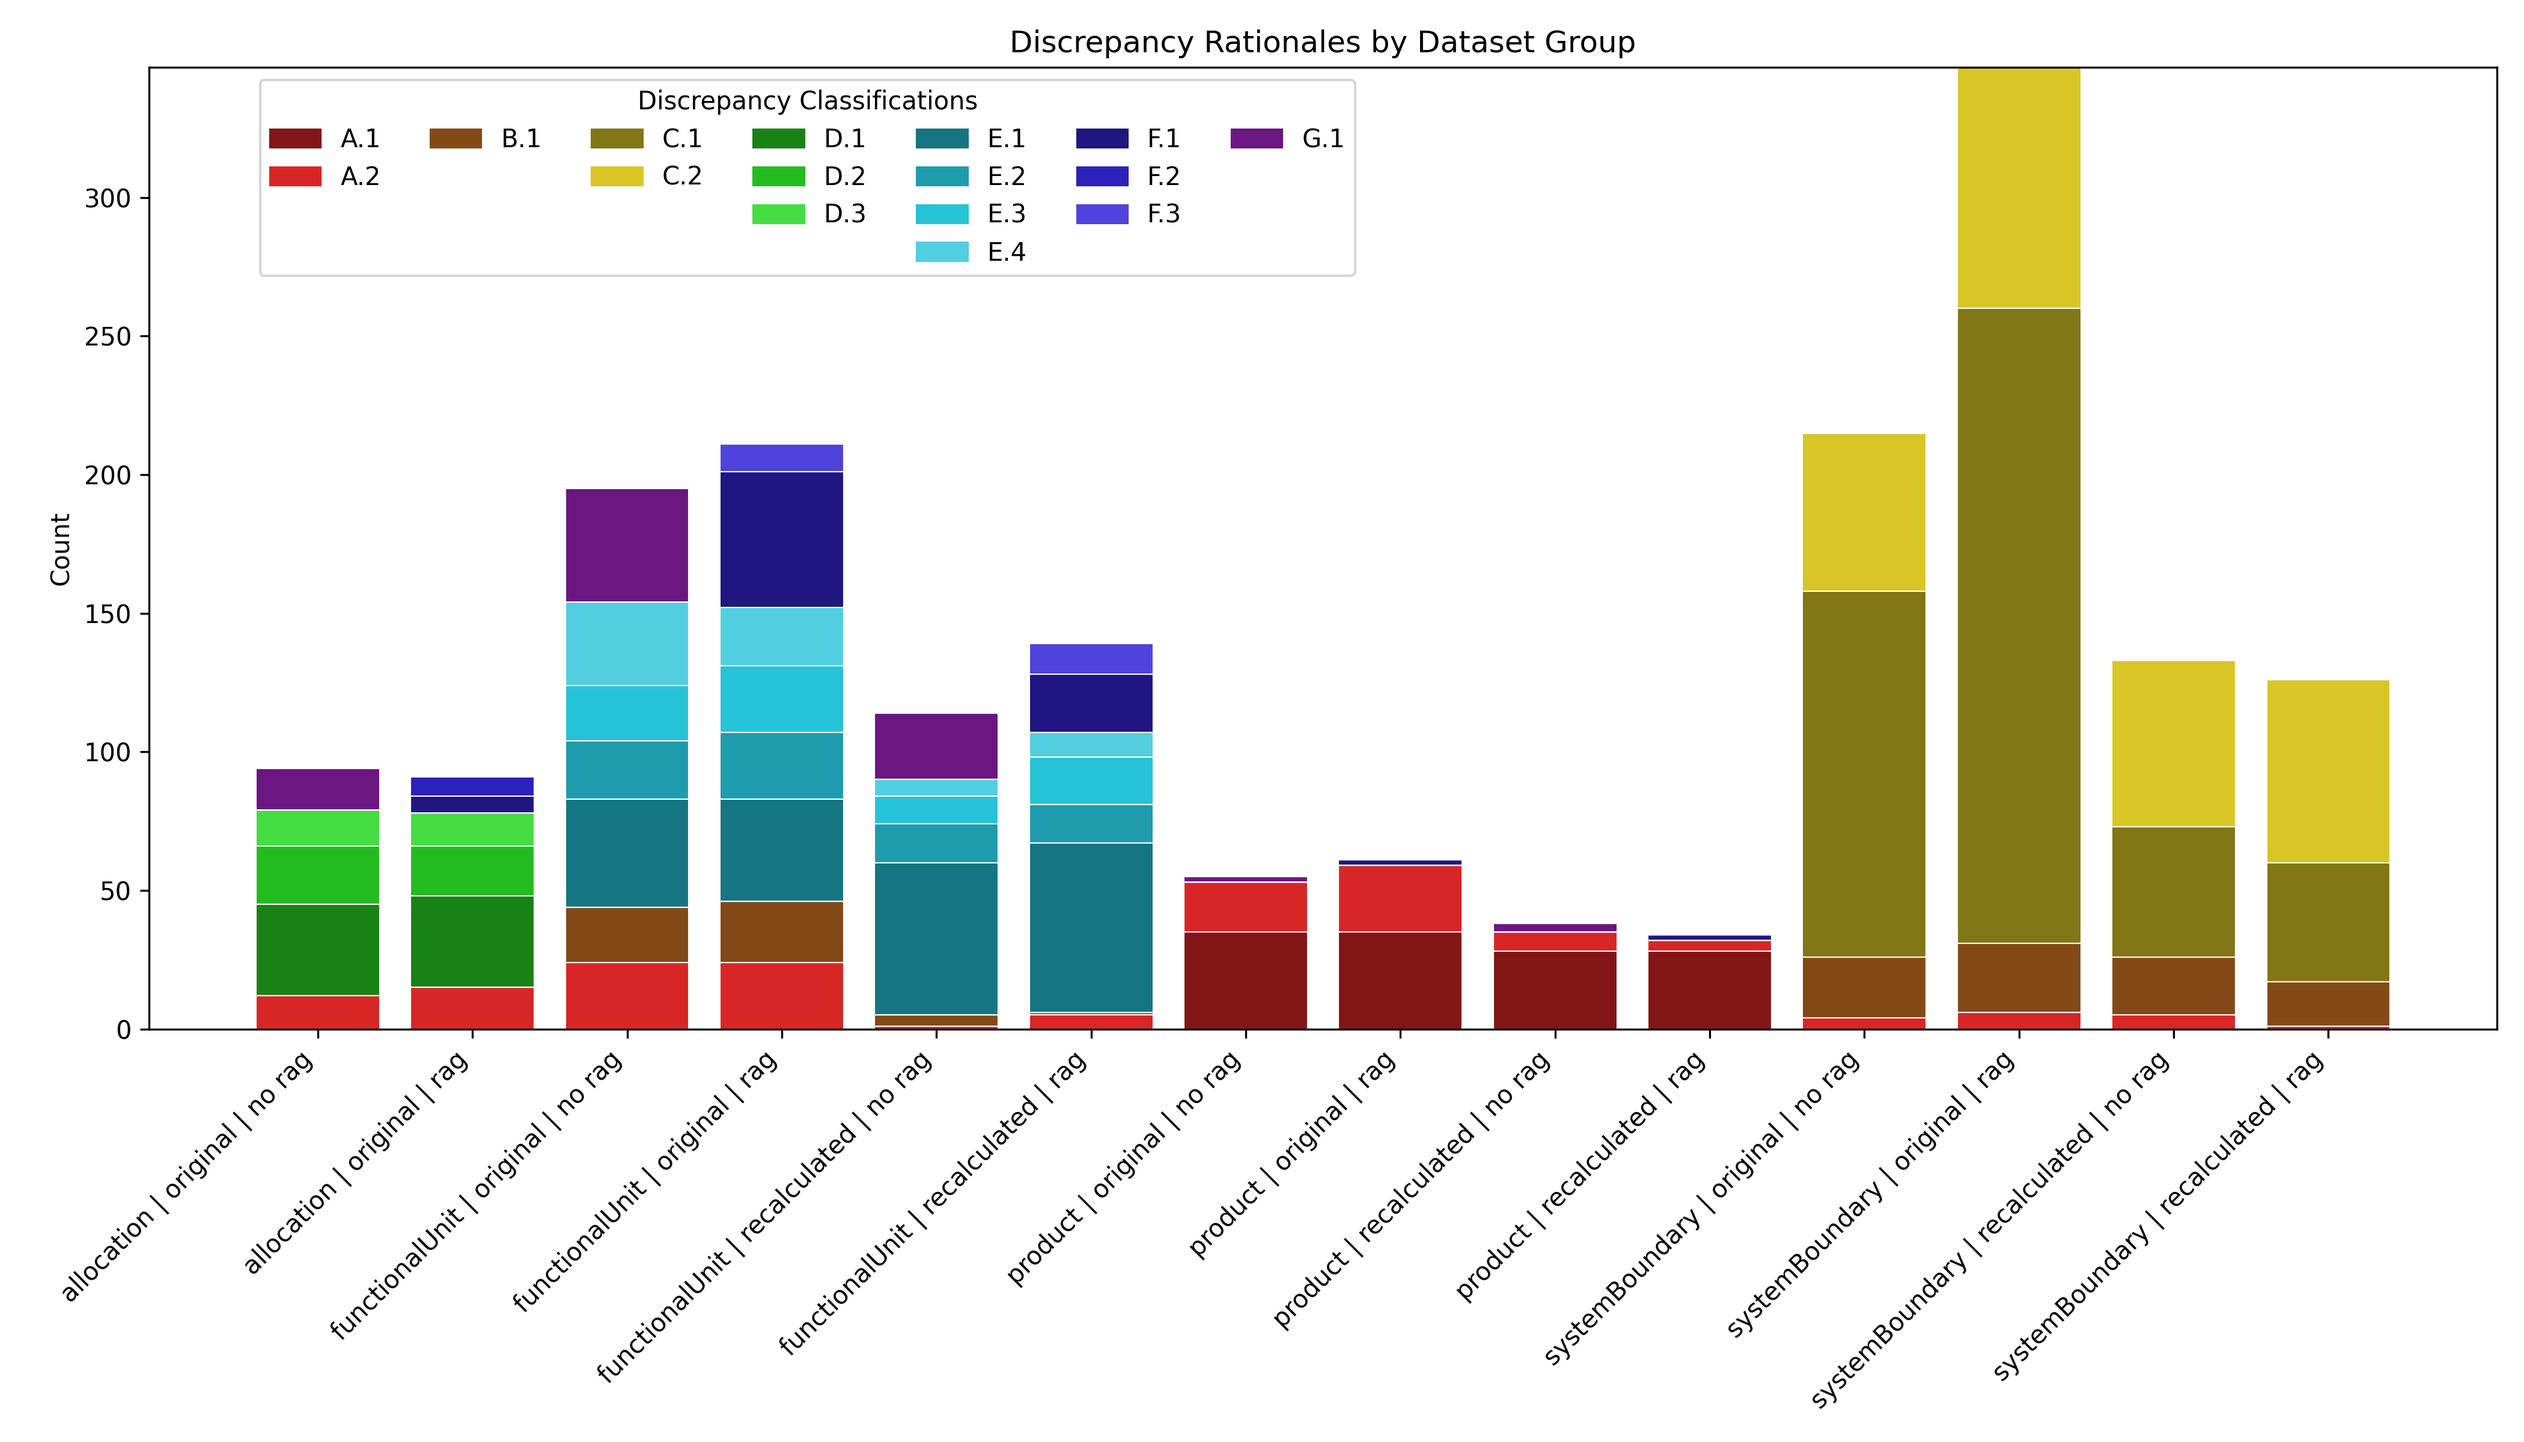
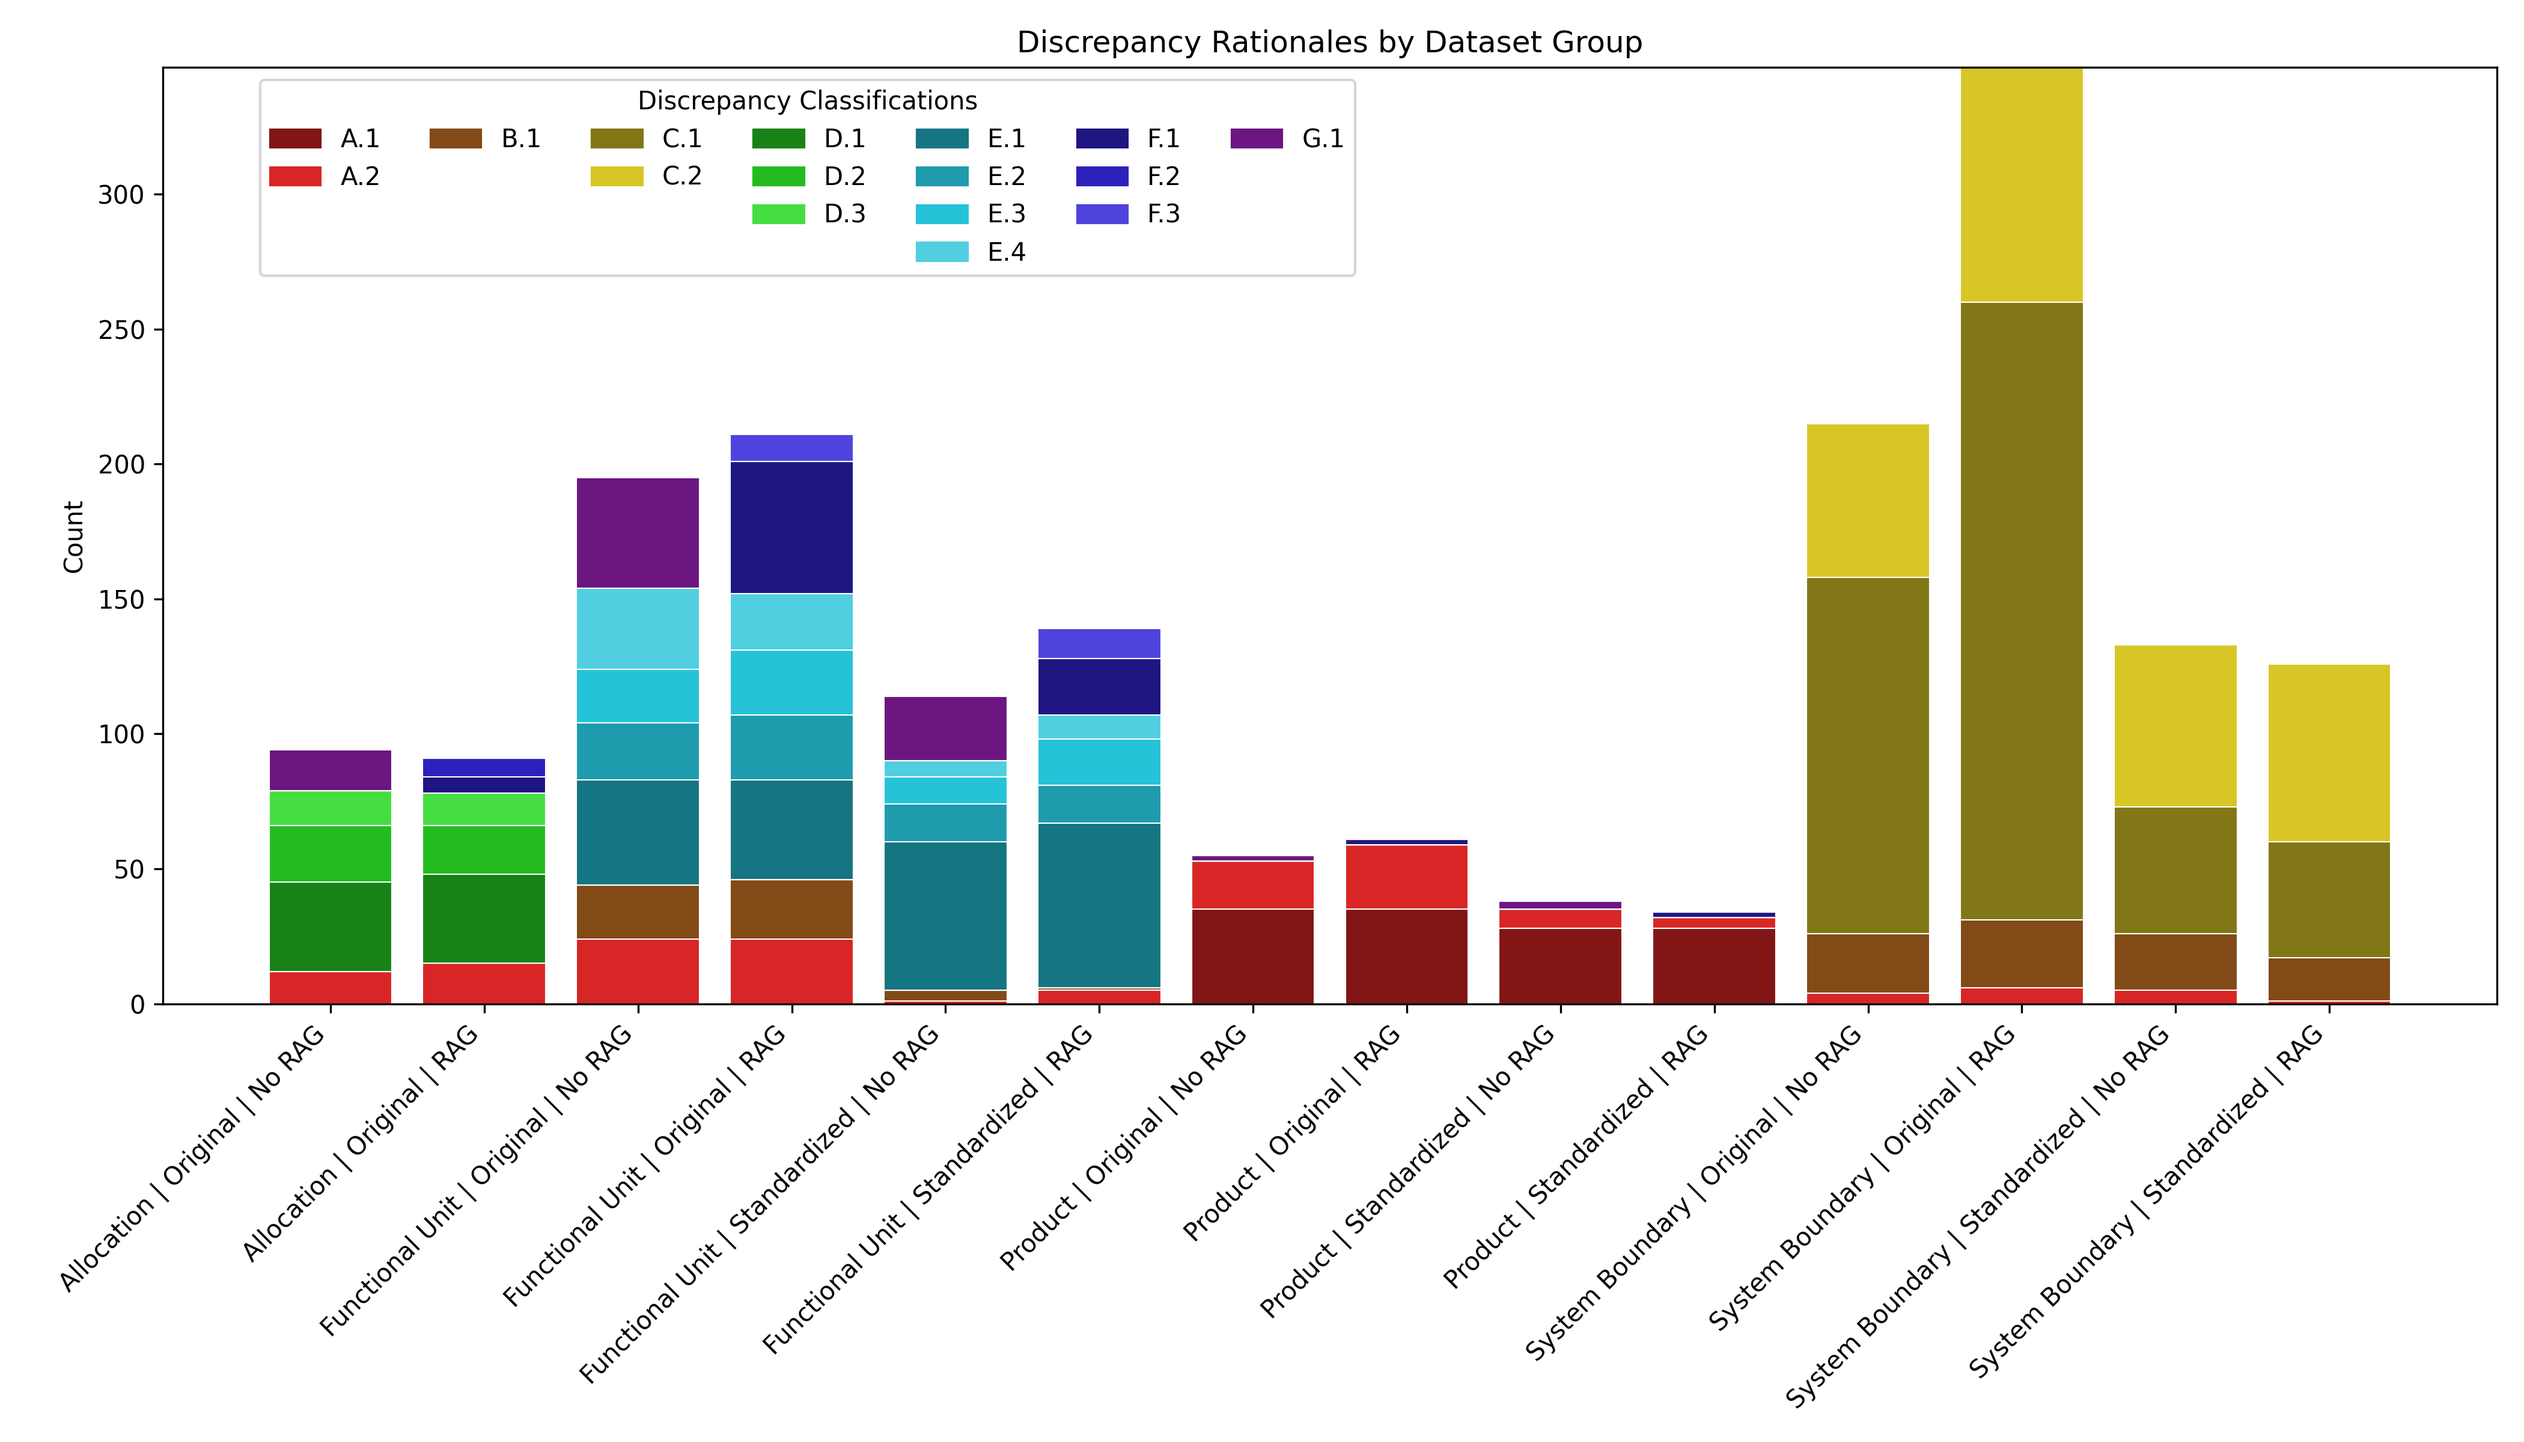
update text in legends

diff --git a/data_analysis.py b/data_analysis.py
@@ -23,7 +23,7 @@ def main():
     # prediction_threshold()
 
     # plot number of labels versus precision for each of the four categories
-    # label_precision()
+    label_precision()
     # parameter_precision()
 
     # collate errors for each dataset based on RAG
@@ -181,6 +181,10 @@ def plot_error_codes():
     """
     df = pd.read_excel("./data/qa_dataset/results/all_models_discrepancies_coded.xlsx")
     df["Discrepancy Code"] = df['Discrepancy Code'].astype('category')
+    df["Dataset"] = df["Dataset"].apply(lambda x: "Functional Unit" if x == "functionalUnit" else "System Boundary" if x == "systemBoundary"
+                                        else "Product" if x== "product" else "Allocation")
+    df["Dataset Type"] = df["Dataset Type"].apply(lambda x: "Standardized" if x == "recalculated" else "Original")
+    df["RAG"] = df["RAG"].apply(lambda x: "RAG" if x == "rag" else "No RAG")
     group_cols = ["Dataset", "Dataset Type", "RAG"]
     df_counts = df.groupby(group_cols + ["Discrepancy Code"])['Number of Models with Error'].sum().reset_index()
 
@@ -608,6 +612,9 @@ def label_precision():
     original = pd.merge(original, original_test, "left", ["dataset", "label", "RAG"])
     recalculated = pd.merge(recalculated, recalculated_test, "left", ["dataset", "label", "RAG"])
     df = pd.concat([original, recalculated])
+    df["dataset"] = df["dataset"].apply(
+        lambda x: "Functional Unit" if x == "functionalUnit" else "System Boundary" if x == "systemBoundary"
+        else "Product" if x == "product" else "Allocation")
 
     # plot scatterplot
     fig, ax = plt.subplots()
